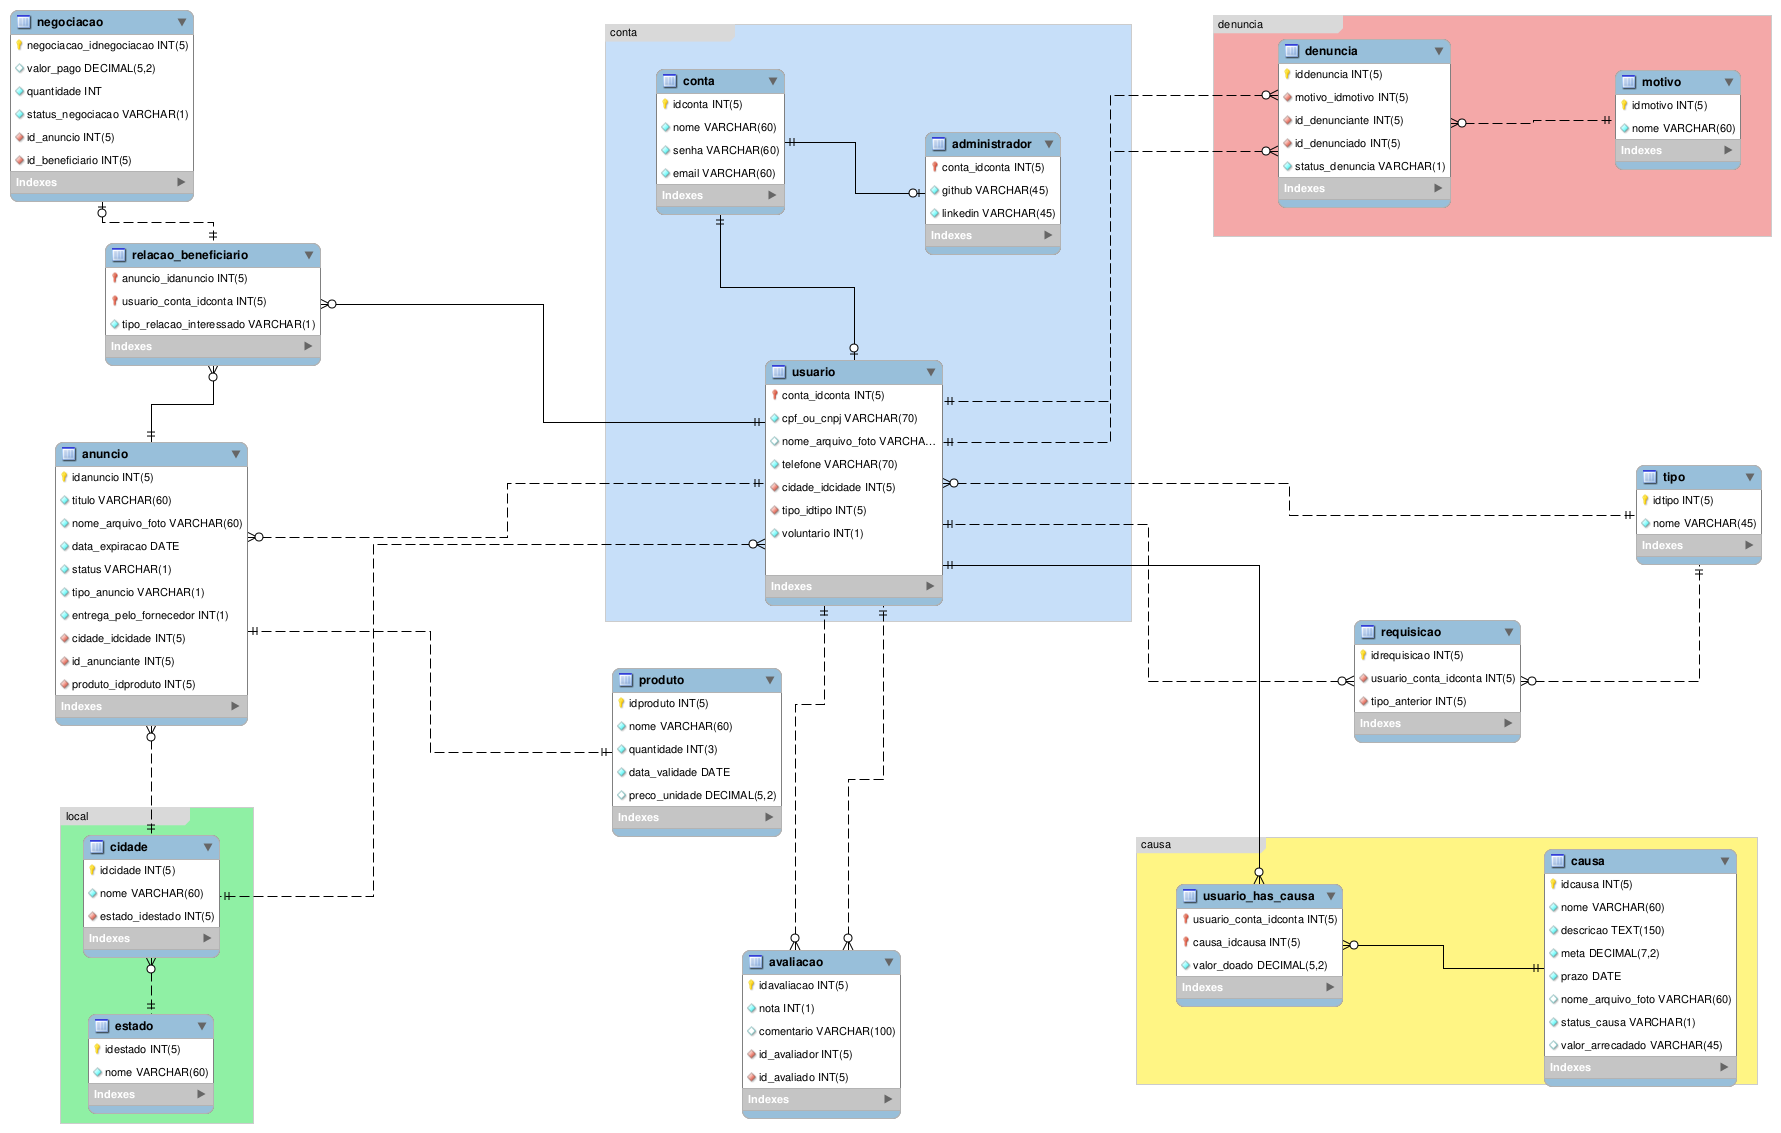
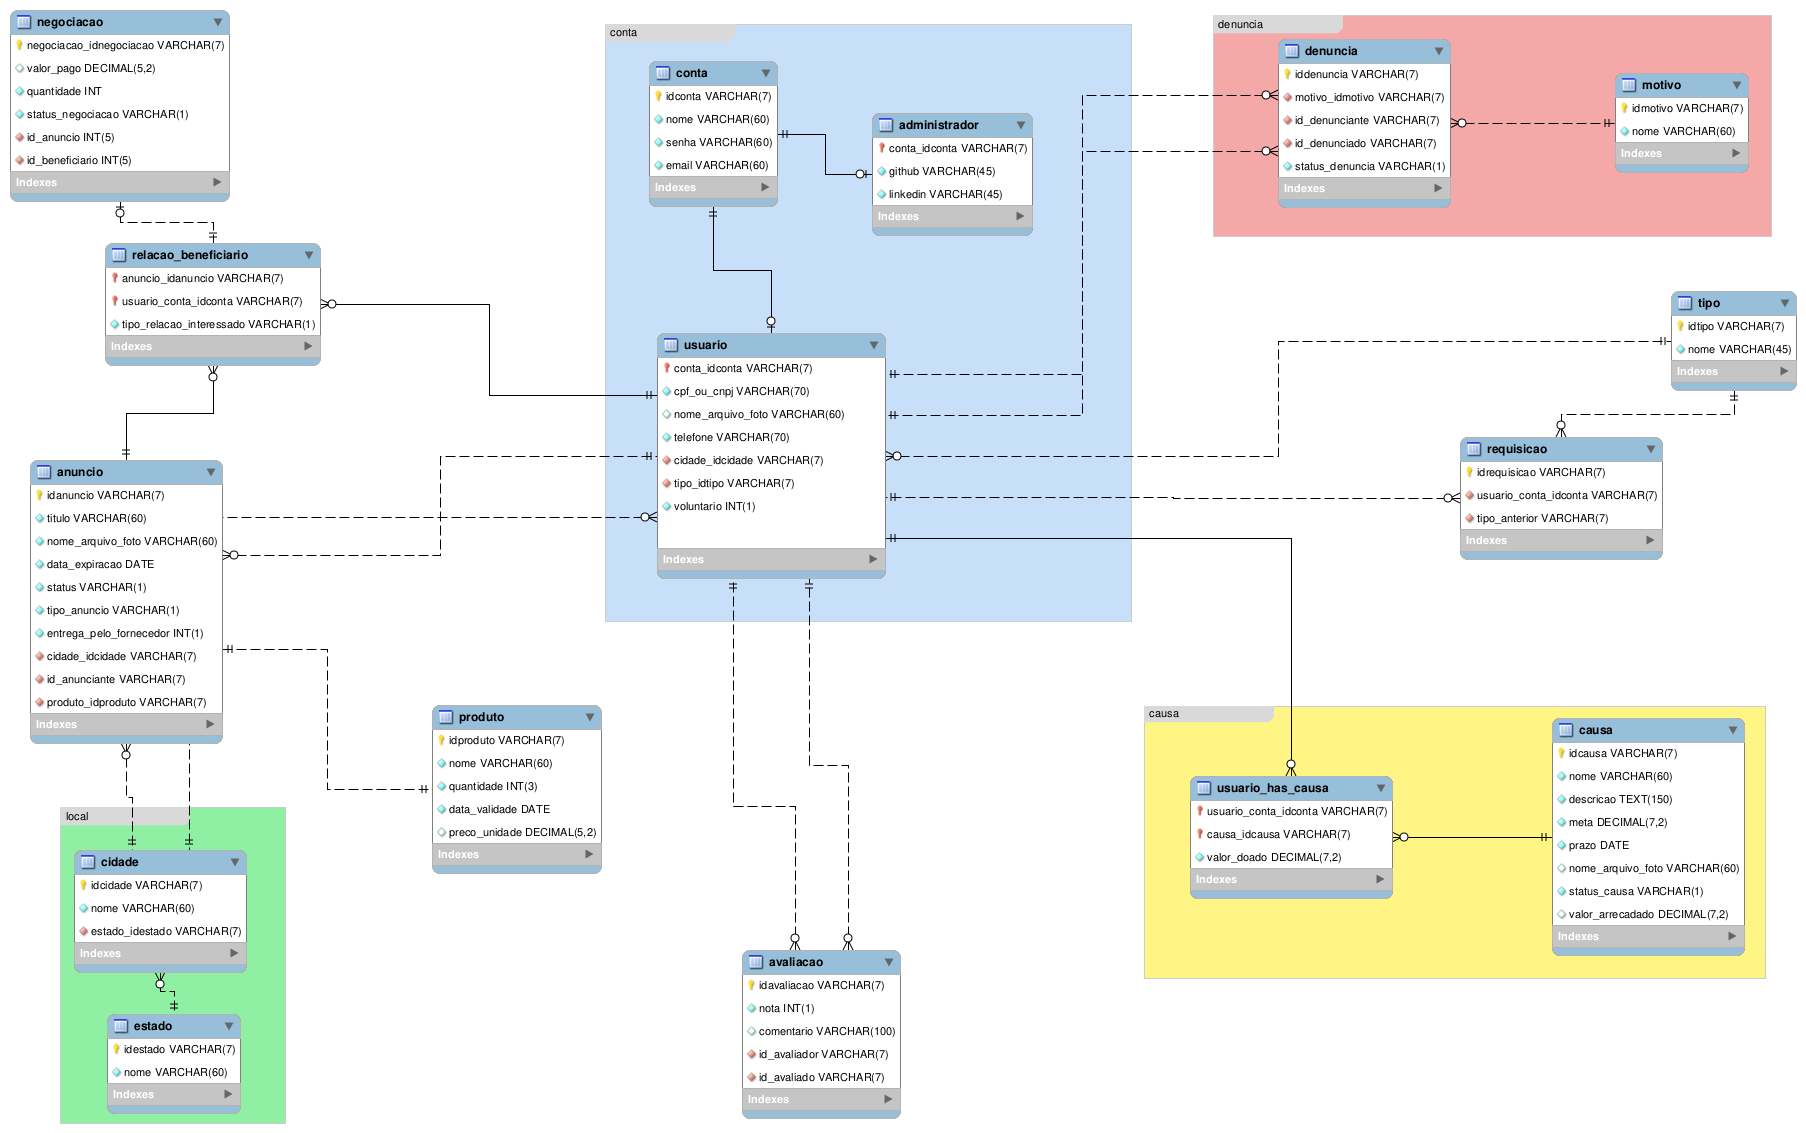
chore(db): atualizando com algumas coisas que estavam desatualizadas/erradas no banco

diff --git a/about_db/script-id.py b/about_db/script-id.py
@@ -3,17 +3,26 @@
 
 sla = [
     {
-        "tabela_base": "conta",
+        "tabela_base": "tipo",
         "tabela_com_chave": "usuario",
-        "chave": "conta_idconta",
-        "chave_referenciada": "idconta",
-        "fk": "fk_usuario_conta1"
+        "chave": "tipo_idtipo",
+        "chave_referenciada": "idtipo",
+        "fk": "fk_usuario_tipo1"
     },
+    {
+        "tabela_base": "tipo",
+        "tabela_com_chave": "requisicao",
+        "chave": "tipo_anterior",
+        "chave_referenciada": "idtipo",
+        "fk": "fk_requisicao_tipo1"
+    },
+    
 ]
 
 for item in sla:
     prefixo_tabela_base = item['tabela_base'][:3].upper()
-    if prefixo_tabela_base == 'USU' or 'ADM': prefixo_tabela_base = 'CON'
+    if prefixo_tabela_base == 'USU' or prefixo_tabela_base == 'ADM':
+        prefixo_tabela_base = 'CON'
 
     #apagar FK
     print(f"ALTER TABLE {item['tabela_com_chave']} DROP FOREIGN KEY {item['fk']};\n") #apagar chave 
